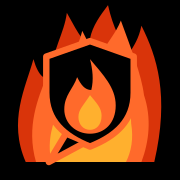
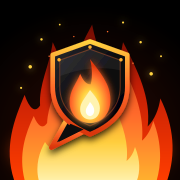
Roastmaster: gedetailleerder icoon
Claude-Session: https://claude.ai/code/session_01WyNZMf3wujBRWFzZVY2XSK

diff --git a/roastmeester/index.html b/roastmeester/index.html
@@ -7,7 +7,7 @@
 <meta name="apple-mobile-web-app-title" content="Roastmaster">
 <meta name="application-name" content="Roastmaster">
 <meta name="theme-color" content="#000000">
-<link rel="apple-touch-icon" href="icon-180.png">
+<link rel="apple-touch-icon" href="icon-180.png?v=4">
 <link rel="icon" type="image/svg+xml" href="icon.svg">
 <link rel="manifest" href="manifest.webmanifest">
 <style>
@@ -25,7 +25,7 @@
 </head>
 <body>
 <main>
-  <img src="icon-180.png" alt="">
+  <img src="icon-180.png?v=4" alt="">
   <h1>Roastmaster</h1>
   <p id="msg">Weerwoord en roasts. Niemand is veilig.</p>
   <a class="go" id="go" href="https://claude.ai/artifact/6WuRMp32yKeMoNycLgHsPu">Open Roastmaster</a>
